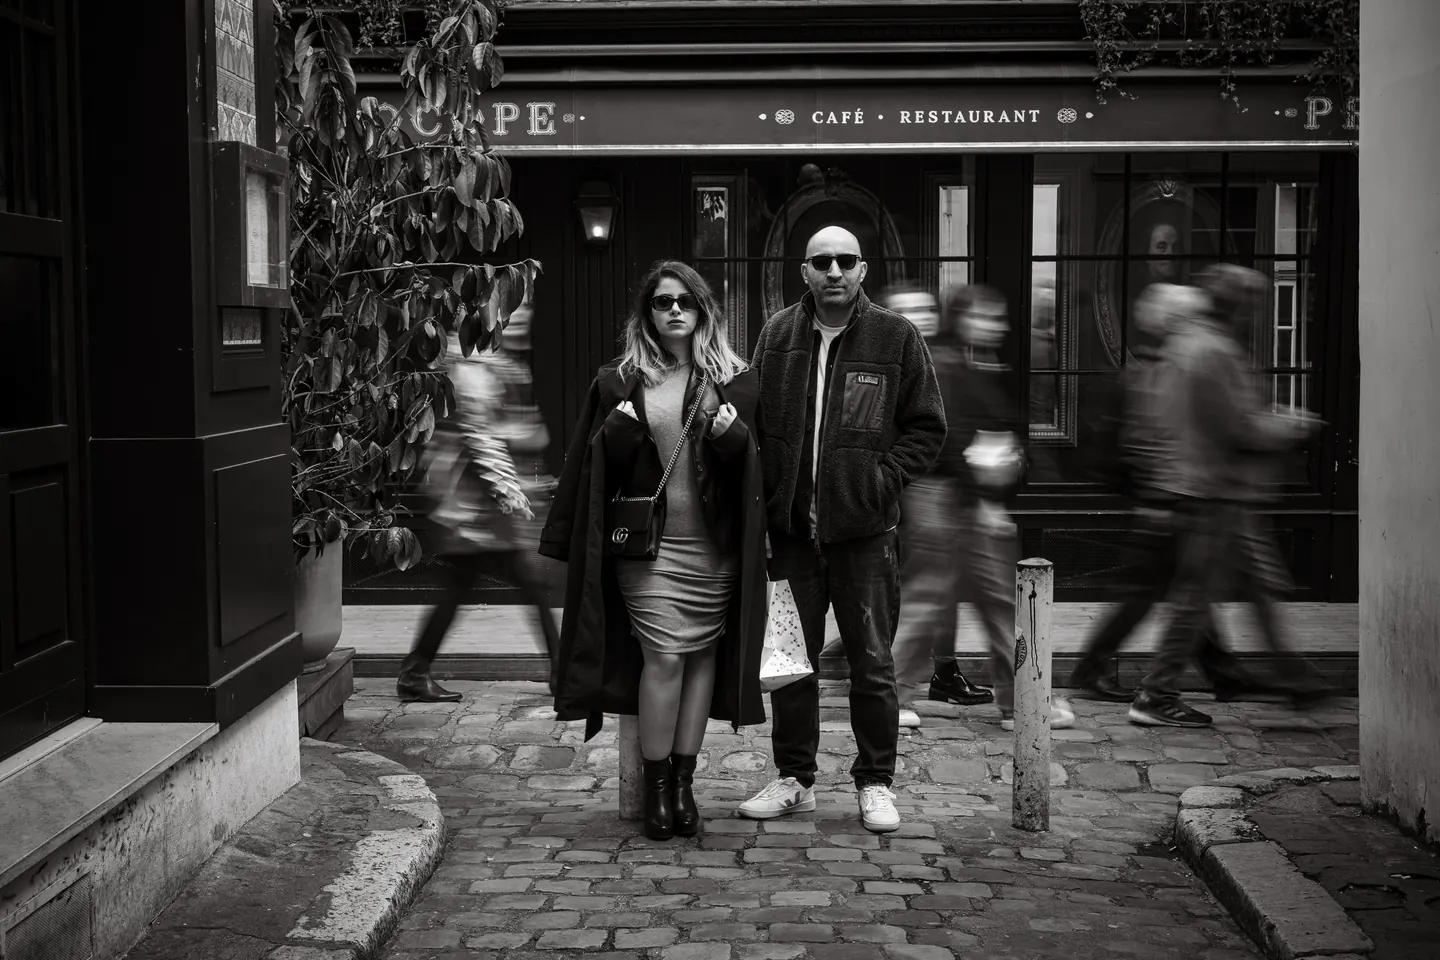
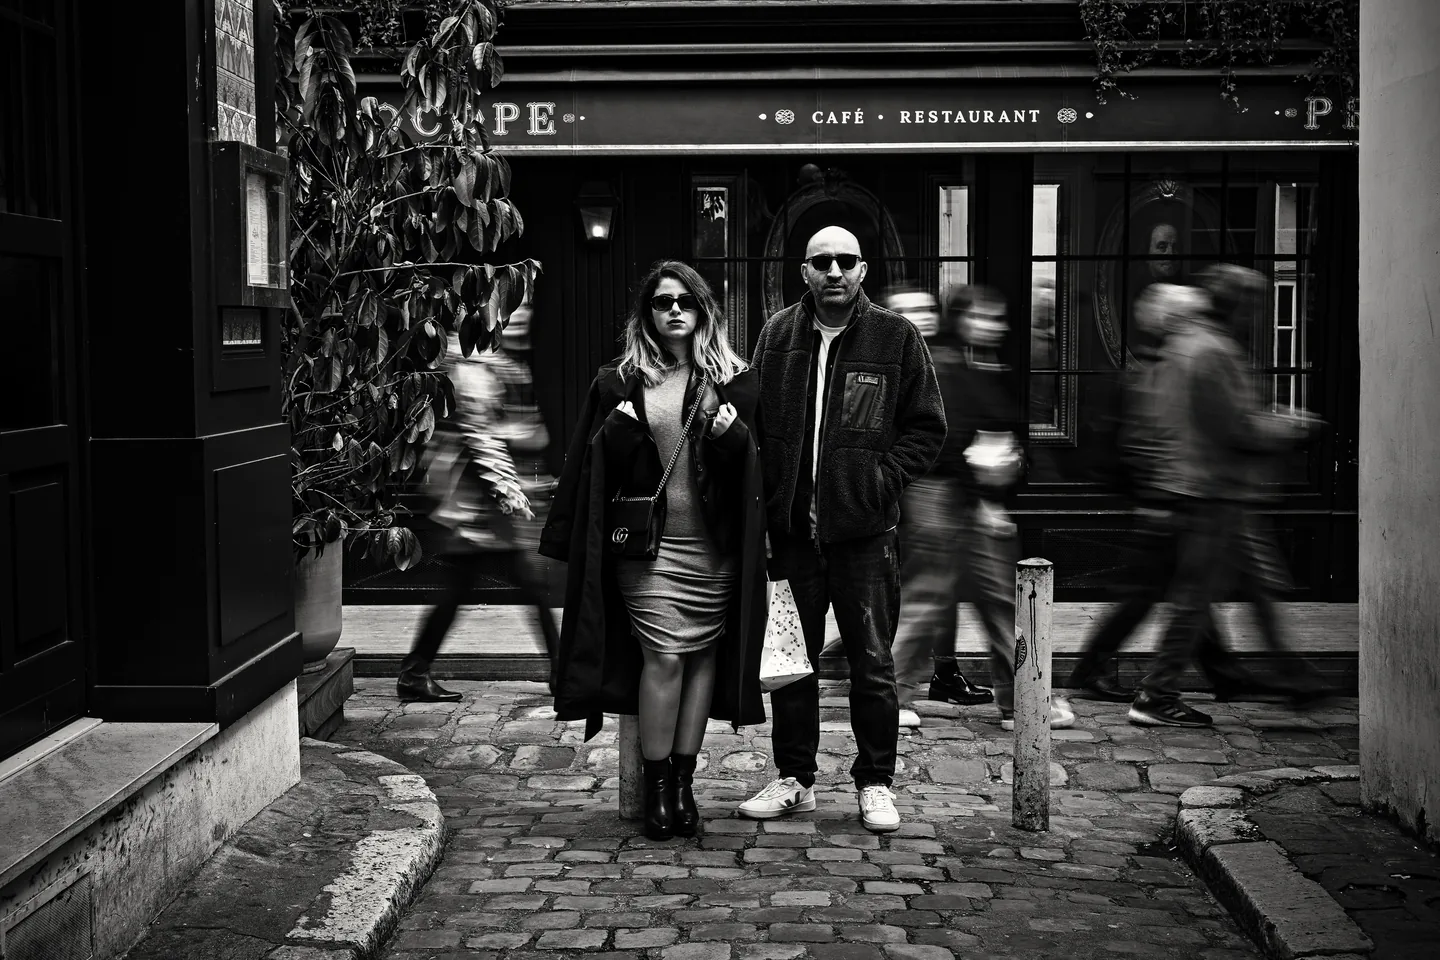
Gallery: Sogand at Le Procope (frame 5) and a café window at night (frame 8); procope couple out of the gallery
- procope-passersby: Sogand standing still in front of Le Procope while passers-by blur past, in the house black and white (60%)
- window-reflection: her face in a rain-speckled café window at night, house look with a soft dodge on the face
- procope couple re-edited in the house look and hidden from the gallery (still used by the dossier demo)
- captions FR/EN/FA

diff --git a/src/lib/photos.ts b/src/lib/photos.ts
@@ -7,15 +7,17 @@ export const photos = [
   { id: 'regrattier', w: 2160, h: 3240, light: 'day', kind: 'couple', bw: true, sizes: [480, 960, 1600], focus: [0.535, 0.53] },
   { id: 'window-diner', w: 1024, h: 1536, light: 'night', kind: 'solo', bw: true, sizes: [480, 960, 1024], focus: [0.53, 0.585] },
   { id: 'cafe-mirror', w: 1536, h: 2304, light: 'day', kind: 'solo', bw: true, sizes: [480, 960, 1536], focus: [0.445, 0.37] },
-  { id: 'procope', w: 6048, h: 4032, light: 'day', kind: 'couple', bw: true, sizes: [720, 1440, 2400], focus: [0.43, 0.325], focus2: [0.675, 0.27] },
+  { id: 'procope-passersby', w: 4032, h: 6048, light: 'day', kind: 'solo', bw: true, sizes: [480, 960, 1600], focus: [0.515, 0.34] },
   { id: 'louvre-arch', w: 1024, h: 1536, light: 'golden', kind: 'couple', bw: true, sizes: [480, 960, 1024], focus: [0.475, 0.497] },
   { id: 'louvre-arcades', w: 1024, h: 1536, light: 'day', kind: 'solo', bw: true, sizes: [480, 960, 1024], focus: [0.505, 0.385] },
+  { id: 'window-reflection', w: 4032, h: 6048, light: 'night', kind: 'solo', bw: true, sizes: [480, 960, 1600], focus: [0.51, 0.39] },
   { id: 'rain', w: 2728, h: 4092, light: 'blue', kind: 'solo', bw: true, sizes: [480, 960, 1600], focus: [0.47, 0.575] },
   { id: 'mist', w: 4032, h: 6048, light: 'day', kind: 'solo', sizes: [480, 960, 1600], inGallery: false },
   { id: 'eiffel-night', w: 941, h: 1672, light: 'night', kind: 'couple', sizes: [480, 941], inGallery: false },
   { id: 'louvre-window', w: 1536, h: 2304, light: 'day', kind: 'solo', sizes: [480, 960, 1536], inGallery: false },
   { id: 'night-hat', w: 3522, h: 5283, light: 'night', kind: 'solo', sizes: [480, 960, 1600], inGallery: false },
   { id: 'cafe-motion', w: 4032, h: 6048, light: 'blue', kind: 'solo', sizes: [480, 960, 1600], inGallery: false },
+  { id: 'procope', w: 6048, h: 4032, light: 'day', kind: 'couple', bw: true, sizes: [720, 1440, 2400], focus: [0.43, 0.325], focus2: [0.675, 0.27], inGallery: false },
 ] as const;
 /** the photos shown in the home gallery, in order (some are only used elsewhere, e.g. the booking form) */
 export const galleryPhotos = photos.filter((p) => !('inGallery' in p));

diff --git a/src/i18n/fa.ts b/src/i18n/fa.ts
@@ -50,6 +50,8 @@ const fa: typeof fr = {
       'louvre-arch': { alt: 'زوجی در سایهروشن، پیشانی به پیشانی، زیر طاق گذرگاه ریشلیو رو به هرم لوور، با جمعیتی که محو از کنارشان میگذرد؛ سیاهوسفید', place: 'گذرگاه ریشلیو، لوور' },
       'louvre-arcades': { alt: 'عروسی با لباس سفید بلند که زیر طاقهای لوور به پشت سر نگاه میکند؛ سیاهوسفید', place: 'طاقهای لوور' },
       'procope': { alt: 'زوجی با عینک آفتابی که بیحرکت جلوی کافه پروکوپ ایستادهاند و رهگذرها پشت سرشان محو میگذرند؛ سیاهوسفید', place: 'کافه پروکوپ، سنژرمن' },
+      'procope-passersby': { alt: 'زنی با پیراهن چهارخانه که بیحرکت جلوی کافه پروکوپ ایستاده، رهگذرها محو از جلویش میگذرند و دو مرد سر میز نگاهش میکنند، با پرترهای قدیمی پشت شیشه؛ سیاهوسفید', place: 'کافه پروکوپ، سنژرمن' },
+      'window-reflection': { alt: 'چهرهی زنی که شب در شیشهی بارانخوردهی یک کافه بازتاب شده، با موهای تیرهاش در پیشزمینه؛ سیاهوسفید', place: 'شیشهی یک کافه در شب' },
       'cafe-motion': { alt: 'زنی که از جلوی تراس یک کافه میگذرد و رهگذرها محو از کنارش رد میشوند', place: 'تراس یک کافه' },
       'regrattier': { alt: 'زوجی در آغوش هم در خیابان لو رگراتیه، با رهگذری در جلوی کادر؛ سیاهوسفید', place: 'خیابان لو رگراتیه، جزیرهی سنلویی' },
       'eiffel-night': { alt: 'زوجی با لباس سفید در یک خیابان پاریس، با برج ایفلِ روشن پشت سرشان', place: 'برج ایفل' },

diff --git a/src/i18n/fr.ts b/src/i18n/fr.ts
@@ -47,6 +47,8 @@ export default {
       'louvre-arch': { alt: 'Un couple en silhouette, front contre front, sous l’arche du passage Richelieu face à la pyramide du Louvre, la foule floue autour d’eux, en noir et blanc', place: 'Passage Richelieu, Louvre' },
       'louvre-arcades': { alt: 'Une mariée en longue robe blanche se retourne sous les arcades du Louvre, en noir et blanc', place: 'Les arcades du Louvre' },
       'procope': { alt: 'Un couple en lunettes de soleil, immobile devant le Procope, les passants flous derrière eux, en noir et blanc', place: 'Le Procope, Saint-Germain' },
+      'procope-passersby': { alt: 'Une femme en chemise à carreaux, immobile devant le Procope, les passants flous devant elle et deux dîneurs qui la regardent, un vieux portrait derrière la vitre, en noir et blanc', place: 'Le Procope, Saint-Germain' },
+      'window-reflection': { alt: 'Le visage d’une femme reflété dans la vitre d’un café constellée de pluie, la nuit, ses cheveux sombres au premier plan, en noir et blanc', place: 'La vitre d’un café, la nuit' },
       'cafe-motion': { alt: 'Une femme passe devant une terrasse de café, les passants flous autour d’elle', place: 'Une terrasse de café' },
       'regrattier': { alt: 'Un couple enlacé rue Le Regrattier, un passant au premier plan, en noir et blanc', place: 'Rue Le Regrattier, île Saint-Louis' },
       'eiffel-night': { alt: 'Un couple vêtu de blanc dans une rue de Paris, la tour Eiffel illuminée derrière eux', place: 'La tour Eiffel' },

diff --git a/src/i18n/en.ts b/src/i18n/en.ts
@@ -49,6 +49,8 @@ const en: typeof fr = {
       'louvre-arch': { alt: 'A couple in silhouette, foreheads touching, under the Passage Richelieu arch facing the Louvre pyramid, the crowd blurring past, in black and white', place: 'Passage Richelieu, Louvre' },
       'louvre-arcades': { alt: 'A bride in a long white dress glancing back under the Louvre arcades, in black and white', place: 'The Louvre arcades' },
       'procope': { alt: 'A couple in sunglasses standing still in front of Le Procope while passers-by blur behind them, in black and white', place: 'Le Procope, Saint-Germain' },
+      'procope-passersby': { alt: 'A woman in a checked shirt standing still in front of Le Procope while passers-by blur past and two diners look on, an old portrait behind the glass, in black and white', place: 'Le Procope, Saint-Germain' },
+      'window-reflection': { alt: 'A woman’s face reflected in a rain-speckled café window at night, her hair dark in the foreground, in black and white', place: 'A café window at night' },
       'cafe-motion': { alt: 'A woman walking past a café terrace while passers-by blur around her', place: 'A café terrace' },
       'regrattier': { alt: 'A couple embracing on Rue Le Regrattier as a passer-by walks through the foreground, in black and white', place: 'Rue Le Regrattier, Île Saint-Louis' },
       'eiffel-night': { alt: 'A couple dressed in white in a Paris street, the lit Eiffel Tower behind them', place: 'The Eiffel Tower' },
